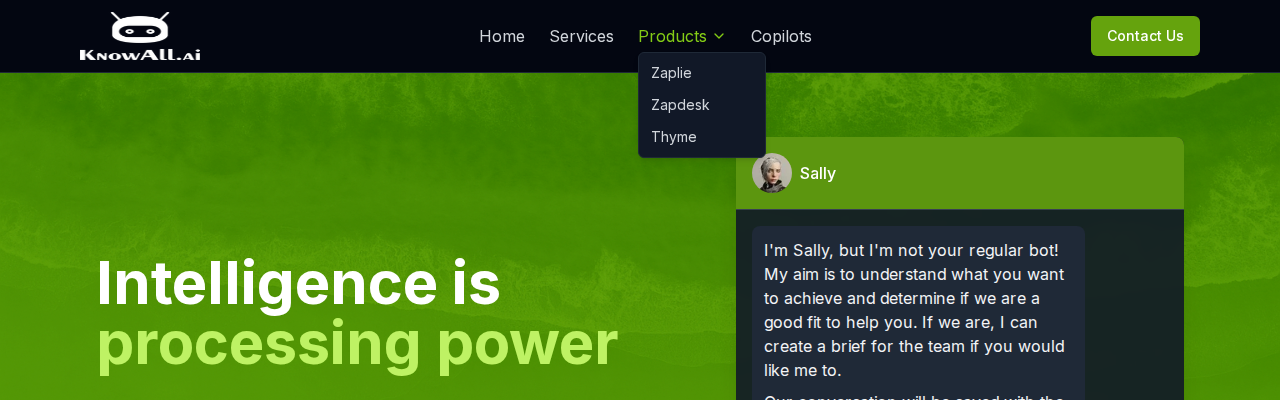
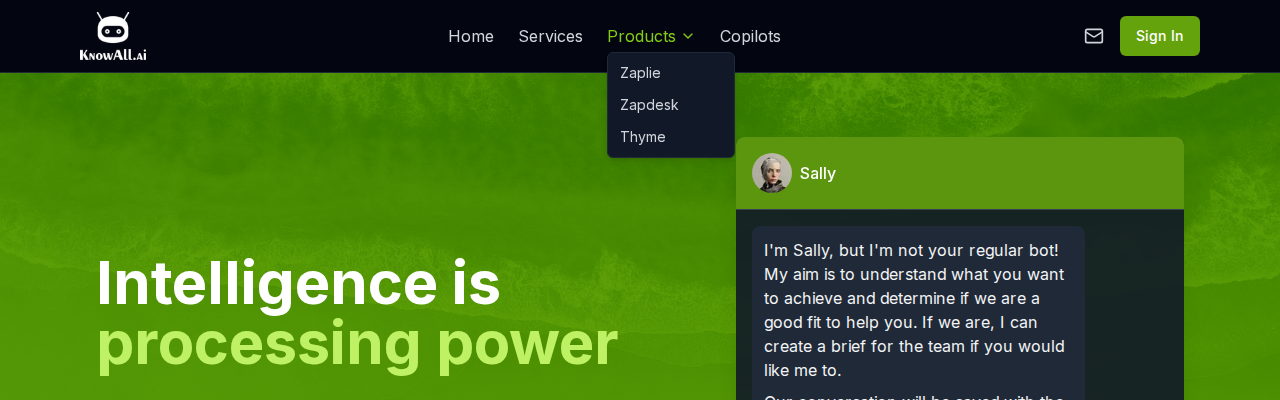
Use live getthyme.ai home screen capture in Thyme section
- Fresh 1440x900 Playwright capture of https://getthyme.ai (the product's
  real domain), optimized to 1200px, at public/images/products/thyme-homepage.png
- Browser-chrome URL pill and CTA now read getthyme.ai (was thyme.knowall.ai)
- Retake thyme-01-section.png and thyme-02-nav-dropdown.png PR screenshots
  (header now shows mail icon + Sign In from master)

diff --git a/app/page.tsx b/app/page.tsx
@@ -316,13 +316,13 @@ export default function Home() {
               </ul>
 
               <a
-                href="https://thyme.knowall.ai"
+                href="https://getthyme.ai"
                 target="_blank"
                 rel="noopener noreferrer"
                 className="inline-flex items-center gap-2 bg-lime-600 hover:bg-lime-700 text-white px-6 py-3 rounded-md transition-colors font-medium shadow-lg shadow-lime-500/20"
               >
                 <ExternalLink className="h-5 w-5" />
-                <span>Visit thyme.knowall.ai</span>
+                <span>Visit getthyme.ai</span>
               </a>
             </div>
 
@@ -340,12 +340,12 @@ export default function Home() {
                     <span className="h-3 w-3 rounded-full bg-yellow-500/80"></span>
                     <span className="h-3 w-3 rounded-full bg-green-500/80"></span>
                     <span className="ml-3 text-xs text-gray-400 bg-gray-900 rounded-md px-3 py-1">
-                      thyme.knowall.ai
+                      getthyme.ai
                     </span>
                   </div>
                   <Image
-                    src="/images/products/thyme.png"
-                    alt="Thyme time tracking application homepage"
+                    src="/images/products/thyme-homepage.png"
+                    alt="Thyme time tracking home screen at getthyme.ai"
                     width={1200}
                     height={750}
                     className="w-full h-auto"